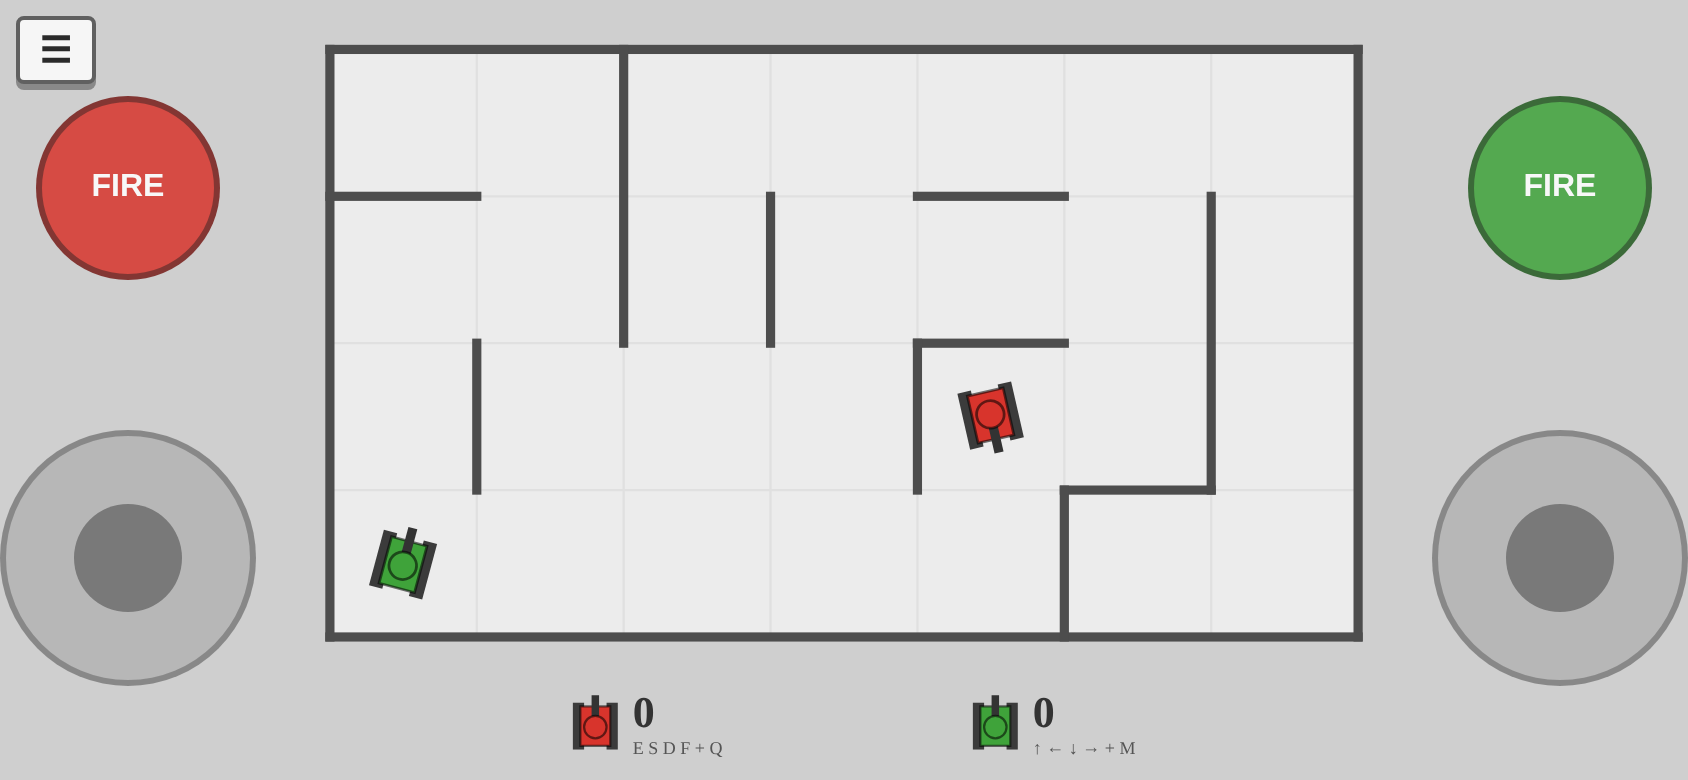
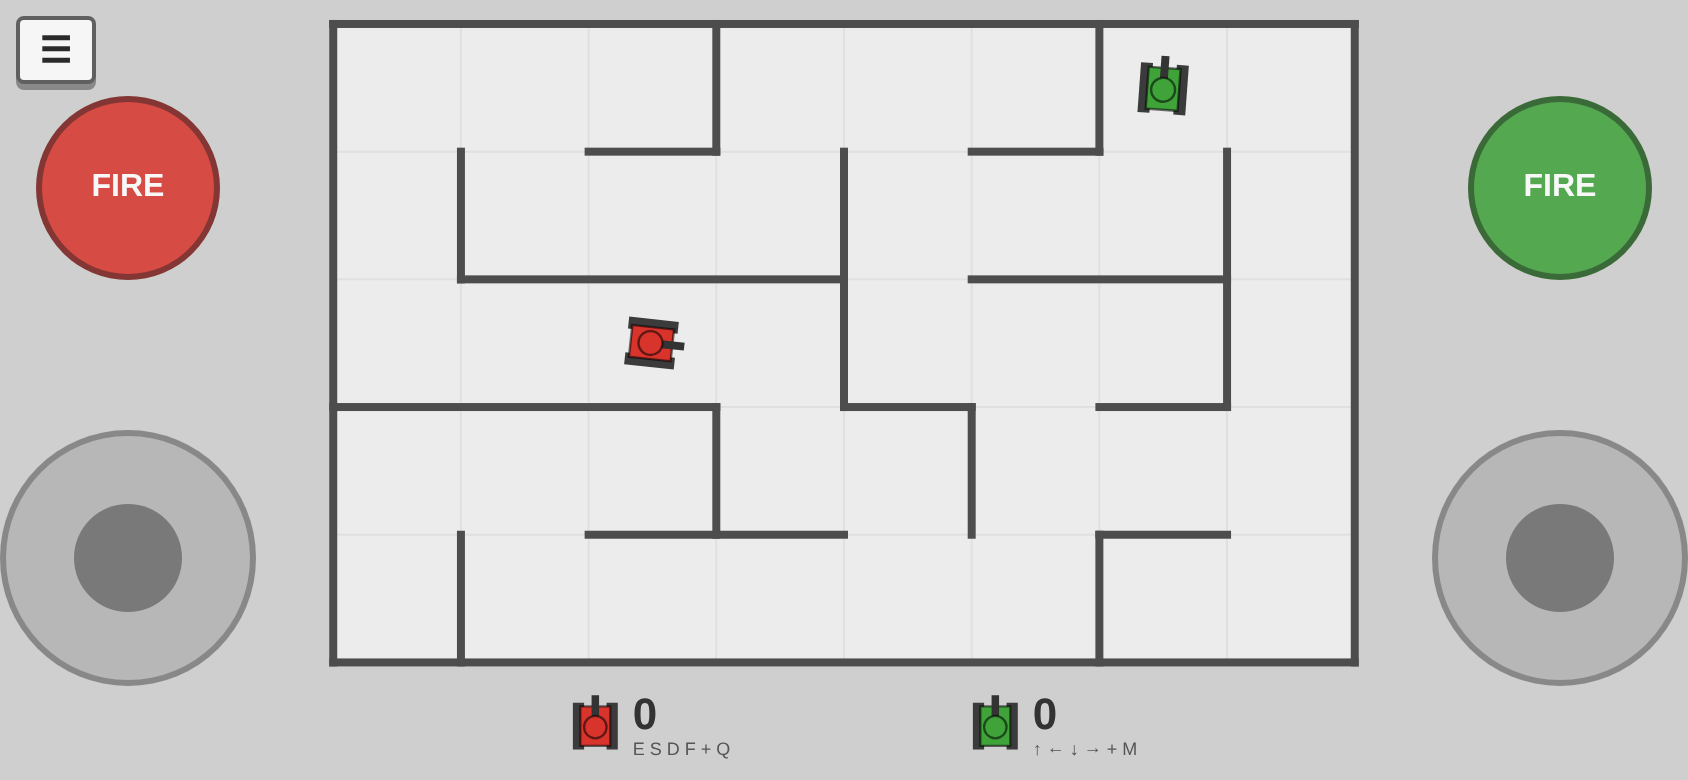
Denser mazes: perfect DFS maze, only ~6-12% interior walls removed; fire key taps latched

diff --git a/tank-tussle.html b/tank-tussle.html
@@ -143,11 +143,15 @@
       else if (d === 'U') hw[r][c] = 0; else hw[r + 1][c] = 0;
       seen[nr][nc] = true; stack.push([nc, nr]);
     }
-    // Knock out extra walls so the maze has loops and open areas (like the original)
-    const extra = Math.floor(cols * rows * rand(0.22, 0.35));
-    for (let i = 0, removed = 0; i < extra * 6 && removed < extra; i++) {
-      if (Math.random() < 0.5) { const r = randi(1, rows - 1), c = randi(0, cols - 1); if (rows > 1 && hw[r][c]) { hw[r][c] = 0; removed++; } }
-      else { const r = randi(0, rows - 1), c = randi(1, cols - 1); if (cols > 1 && vw[r][c]) { vw[r][c] = 0; removed++; } }
+    // Knock out only a small fraction (~6-12%) of the remaining interior walls for a few loops.
+    // Starting from a perfect (fully connected) maze, removing walls can never isolate a cell.
+    const interior = [];
+    for (let r = 1; r < rows; r++) for (let c = 0; c < cols; c++) if (hw[r][c]) interior.push(['h', r, c]);
+    for (let r = 0; r < rows; r++) for (let c = 1; c < cols; c++) if (vw[r][c]) interior.push(['v', r, c]);
+    const extra = Math.round(interior.length * rand(0.06, 0.12));
+    for (let i = 0; i < extra && interior.length; i++) {
+      const [k, r, c] = interior.splice(randi(0, interior.length - 1), 1)[0];
+      if (k === 'h') hw[r][c] = 0; else vw[r][c] = 0;
     }
     return { cols, rows, hw, vw };
   }

diff --git a/public/game.js b/public/game.js
@@ -38,11 +38,15 @@
       else if (d === 'U') hw[r][c] = 0; else hw[r + 1][c] = 0;
       seen[nr][nc] = true; stack.push([nc, nr]);
     }
-    // Knock out extra walls so the maze has loops and open areas (like the original)
-    const extra = Math.floor(cols * rows * rand(0.22, 0.35));
-    for (let i = 0, removed = 0; i < extra * 6 && removed < extra; i++) {
-      if (Math.random() < 0.5) { const r = randi(1, rows - 1), c = randi(0, cols - 1); if (rows > 1 && hw[r][c]) { hw[r][c] = 0; removed++; } }
-      else { const r = randi(0, rows - 1), c = randi(1, cols - 1); if (cols > 1 && vw[r][c]) { vw[r][c] = 0; removed++; } }
+    // Knock out only a small fraction (~6-12%) of the remaining interior walls for a few loops.
+    // Starting from a perfect (fully connected) maze, removing walls can never isolate a cell.
+    const interior = [];
+    for (let r = 1; r < rows; r++) for (let c = 0; c < cols; c++) if (hw[r][c]) interior.push(['h', r, c]);
+    for (let r = 0; r < rows; r++) for (let c = 1; c < cols; c++) if (vw[r][c]) interior.push(['v', r, c]);
+    const extra = Math.round(interior.length * rand(0.06, 0.12));
+    for (let i = 0; i < extra && interior.length; i++) {
+      const [k, r, c] = interior.splice(randi(0, interior.length - 1), 1)[0];
+      if (k === 'h') hw[r][c] = 0; else vw[r][c] = 0;
     }
     return { cols, rows, hw, vw };
   }
